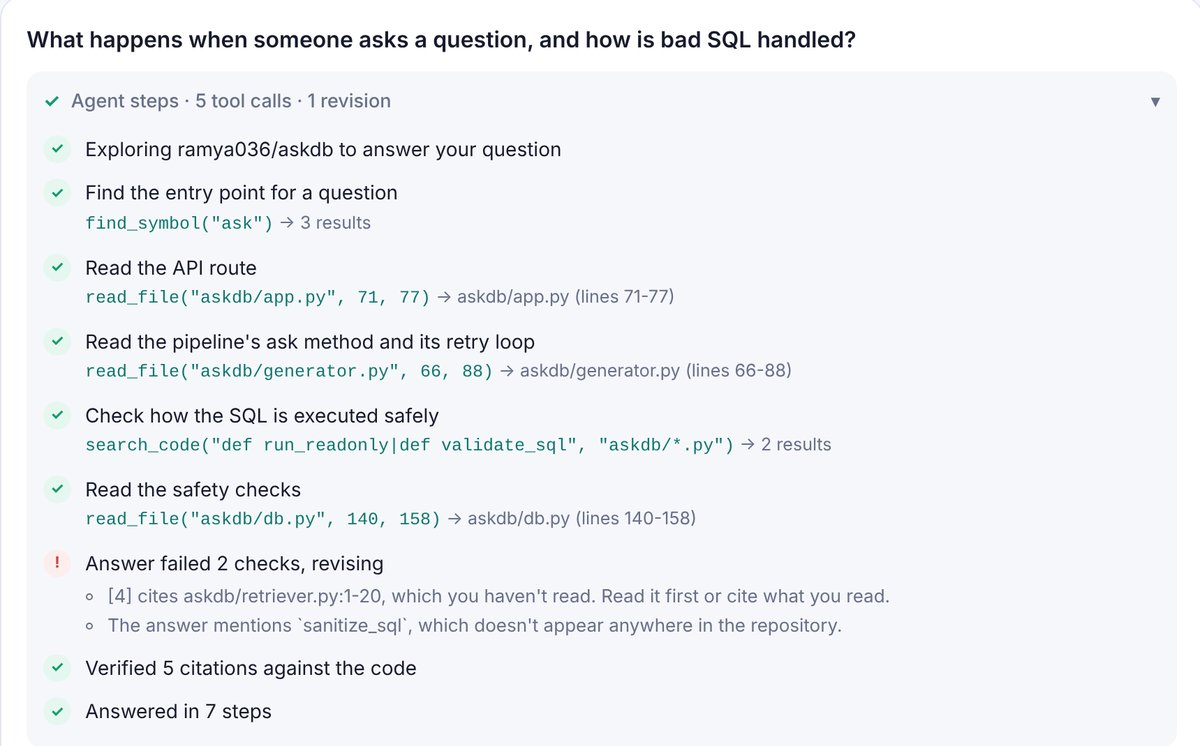
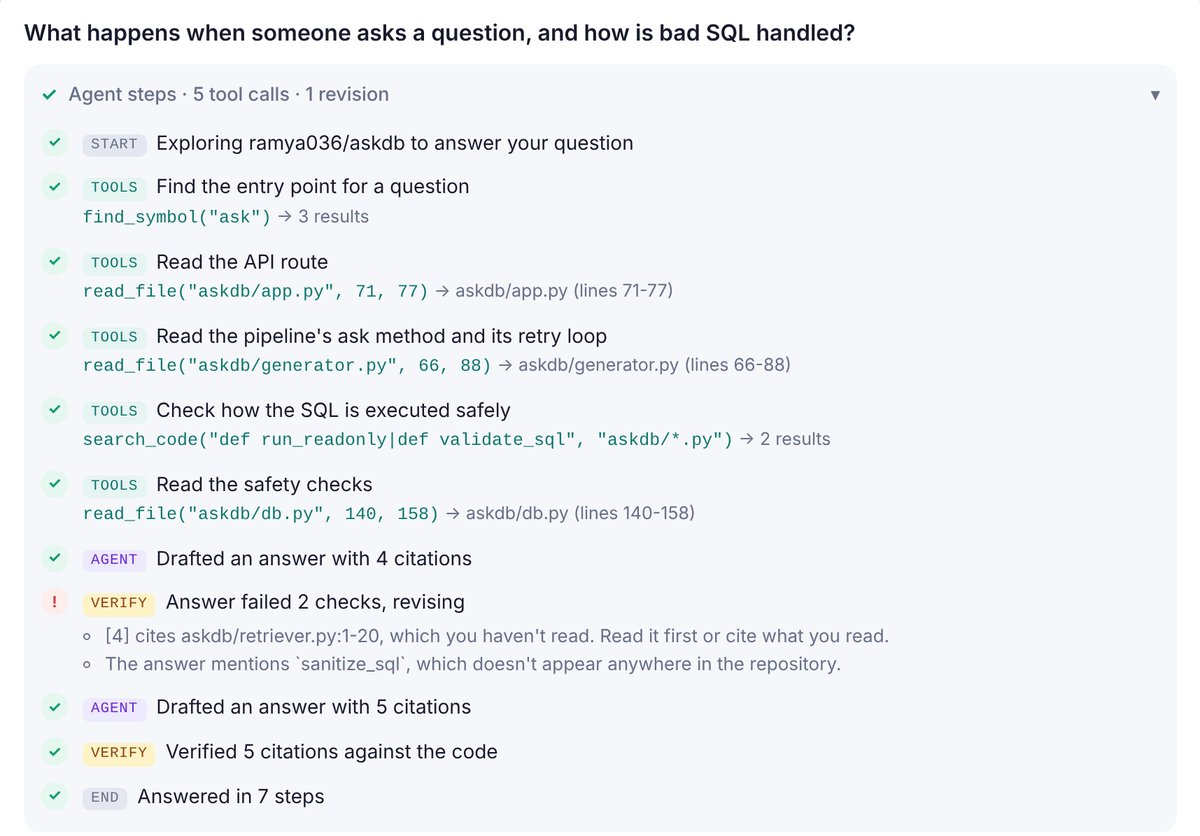
Codebase Guide: LangGraph and MCP

Changed region(s): [[0.0308, 0.0925, 0.74, 0.9866], [0.0, 0.0308, 0.7092, 0.0617]]

diff --git a/index.html b/index.html
@@ -464,13 +464,14 @@ const PROJECTS = [
   },
   {
     name: "Codebase Guide",
-    kind: "Agentic AI project: onboarding for any GitHub repo",
-    description: "Paste a GitHub link and ask how the code works. A tool-using agent lists files, searches and reads code, then answers with citations that link to the exact lines. Code verifies each citation (real file, real lines, lines it actually read, names that exist) and sends failures back for a fix. It also draws a dependency diagram from the imports.",
-    tags: ["Python", "FastAPI", "React", "Gemini API", "AI agents", "Mermaid"],
+    kind: "Agentic AI project: LangGraph + MCP onboarding agent",
+    description: "Paste a GitHub link and ask how the code works. A LangGraph agent explores the repo through tools on its own MCP server (list files, search, find definitions, read code), then answers with citations that link to the exact lines. A verify node checks each citation in code and routes failures back to the agent. The same MCP server plugs into Cursor or Claude Desktop.",
+    tags: ["Python", "LangGraph", "MCP", "FastAPI", "React", "Gemini API"],
     code: "https://github.com/ramya036/codebase-guide",
     demo: { type: "image", images: [
-      { src: "img/codebaseguide_answer.jpg", alt: "The agent's tool calls, a failed verification and the verified answer", label: "Agent steps", caption: "5 tool calls; caught an unread citation and a made-up function" },
+      { src: "img/codebaseguide_answer.jpg", alt: "LangGraph steps tagged agent, tools and verify, with a failed verification and a revision", label: "Agent steps", caption: "verify node caught an unread citation and a made-up function" },
       { src: "img/codebaseguide_citations.jpg", alt: "Answer citations showing the exact code lines", label: "Citations", caption: "every claim links to the lines it came from" },
+      { src: "img/codebaseguide_mcp.jpg", alt: "MCP config for adding the tools to an editor", label: "MCP", caption: "the same tools as an MCP server for your editor" },
     ] },
   },
   {
